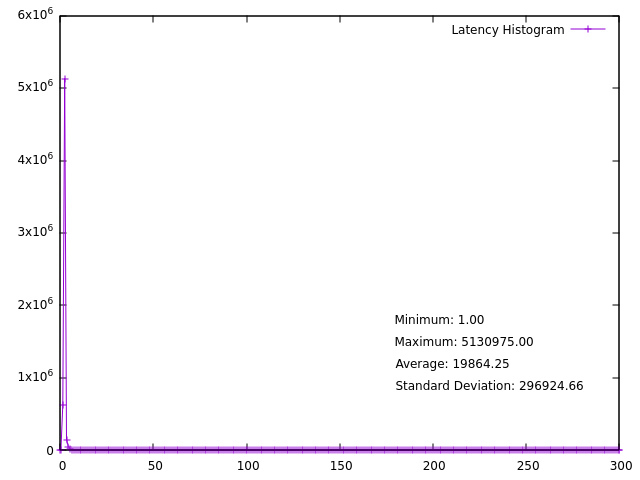
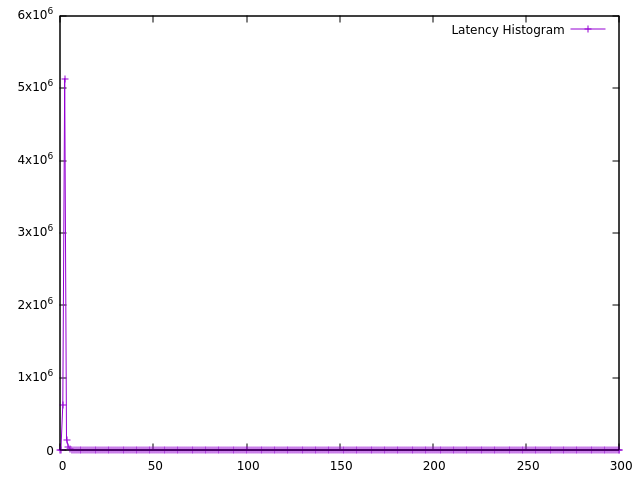
gnuplot

Changed region(s): [[0.625, 0.75, 0.9062, 0.8125], [0.5938, 0.6562, 0.8438, 0.7188]]

diff --git a/masterthesis-documentation/docs/sigmatek/xenomai/with_taskset/max_latency_with_taskset_10min_gnoplot.md b/masterthesis-documentation/docs/sigmatek/xenomai/with_taskset/max_latency_with_taskset_10min_gnoplot.md
@@ -3,12 +3,6 @@
 # Calculate statistics
 stats 'max_latency_with_taskset_10min.txt' using 2 nooutput
 
-# Define labels for the statistics
-set label 1 sprintf("Minimum: %.2f", STATS_min) at graph 0.6, graph 0.3
-set label 2 sprintf("Maximum: %.2f", STATS_max) at graph 0.6, graph 0.25
-set label 3 sprintf("Average: %.2f", STATS_mean) at graph 0.6, graph 0.2
-set label 4 sprintf("Standard Deviation: %.2f", STATS_stddev) at graph 0.6, graph 0.15
-
 # Plot the data
 plot 'max_latency_with_taskset_10min.txt' using 1:2 with linespoints title 'Latency Histogram'
 ```

diff --git a/masterthesis-documentation/docs/sigmatek/xenomai/hardware/max_latency_hardware_10min_gnoplot.md b/masterthesis-documentation/docs/sigmatek/xenomai/hardware/max_latency_hardware_10min_gnoplot.md
@@ -3,12 +3,6 @@
 # Calculate statistics
 stats 'max_latency_hardware_10min.txt' using 2 nooutput
 
-# Define labels for the statistics
-set label 1 sprintf("Minimum: %.2f", STATS_min) at graph 0.6, graph 0.3
-set label 2 sprintf("Maximum: %.2f", STATS_max) at graph 0.6, graph 0.25
-set label 3 sprintf("Average: %.2f", STATS_mean) at graph 0.6, graph 0.2
-set label 4 sprintf("Standard Deviation: %.2f", STATS_stddev) at graph 0.6, graph 0.15
-
 # Plot the data
 plot 'max_latency_hardware_10min.txt' using 1:2 with linespoints title 'Latency Histogram'
 ```

diff --git a/masterthesis-documentation/docs/sigmatek/xenomai/default/max_latency_default_10min_gnoplot.md b/masterthesis-documentation/docs/sigmatek/xenomai/default/max_latency_default_10min_gnoplot.md
@@ -3,12 +3,6 @@
 # Calculate statistics
 stats 'max_latency_default_10min.txt' using 2 nooutput
 
-# Define labels for the statistics
-set label 1 sprintf("Minimum: %.2f", STATS_min) at graph 0.6, graph 0.3
-set label 2 sprintf("Maximum: %.2f", STATS_max) at graph 0.6, graph 0.25
-set label 3 sprintf("Average: %.2f", STATS_mean) at graph 0.6, graph 0.2
-set label 4 sprintf("Standard Deviation: %.2f", STATS_stddev) at graph 0.6, graph 0.15
-
 # Plot the data
 plot 'max_latency_default_10min.txt' using 1:2 with linespoints title 'Latency Histogram'
 ```

diff --git a/masterthesis-documentation/docs/sigmatek/xenomai/vapic/max_latency_vapic_10min_gnoplot.md b/masterthesis-documentation/docs/sigmatek/xenomai/vapic/max_latency_vapic_10min_gnoplot.md
@@ -3,12 +3,6 @@
 # Calculate statistics
 stats 'max_latency_vapic_10min.txt' using 2 nooutput
 
-# Define labels for the statistics
-set label 1 sprintf("Minimum: %.2f", STATS_min) at graph 0.6, graph 0.3
-set label 2 sprintf("Maximum: %.2f", STATS_max) at graph 0.6, graph 0.25
-set label 3 sprintf("Average: %.2f", STATS_mean) at graph 0.6, graph 0.2
-set label 4 sprintf("Standard Deviation: %.2f", STATS_stddev) at graph 0.6, graph 0.15
-
 # Plot the data
 plot 'max_latency_vapic_10min.txt' using 1:2 with linespoints title 'Latency Histogram'
 ```
